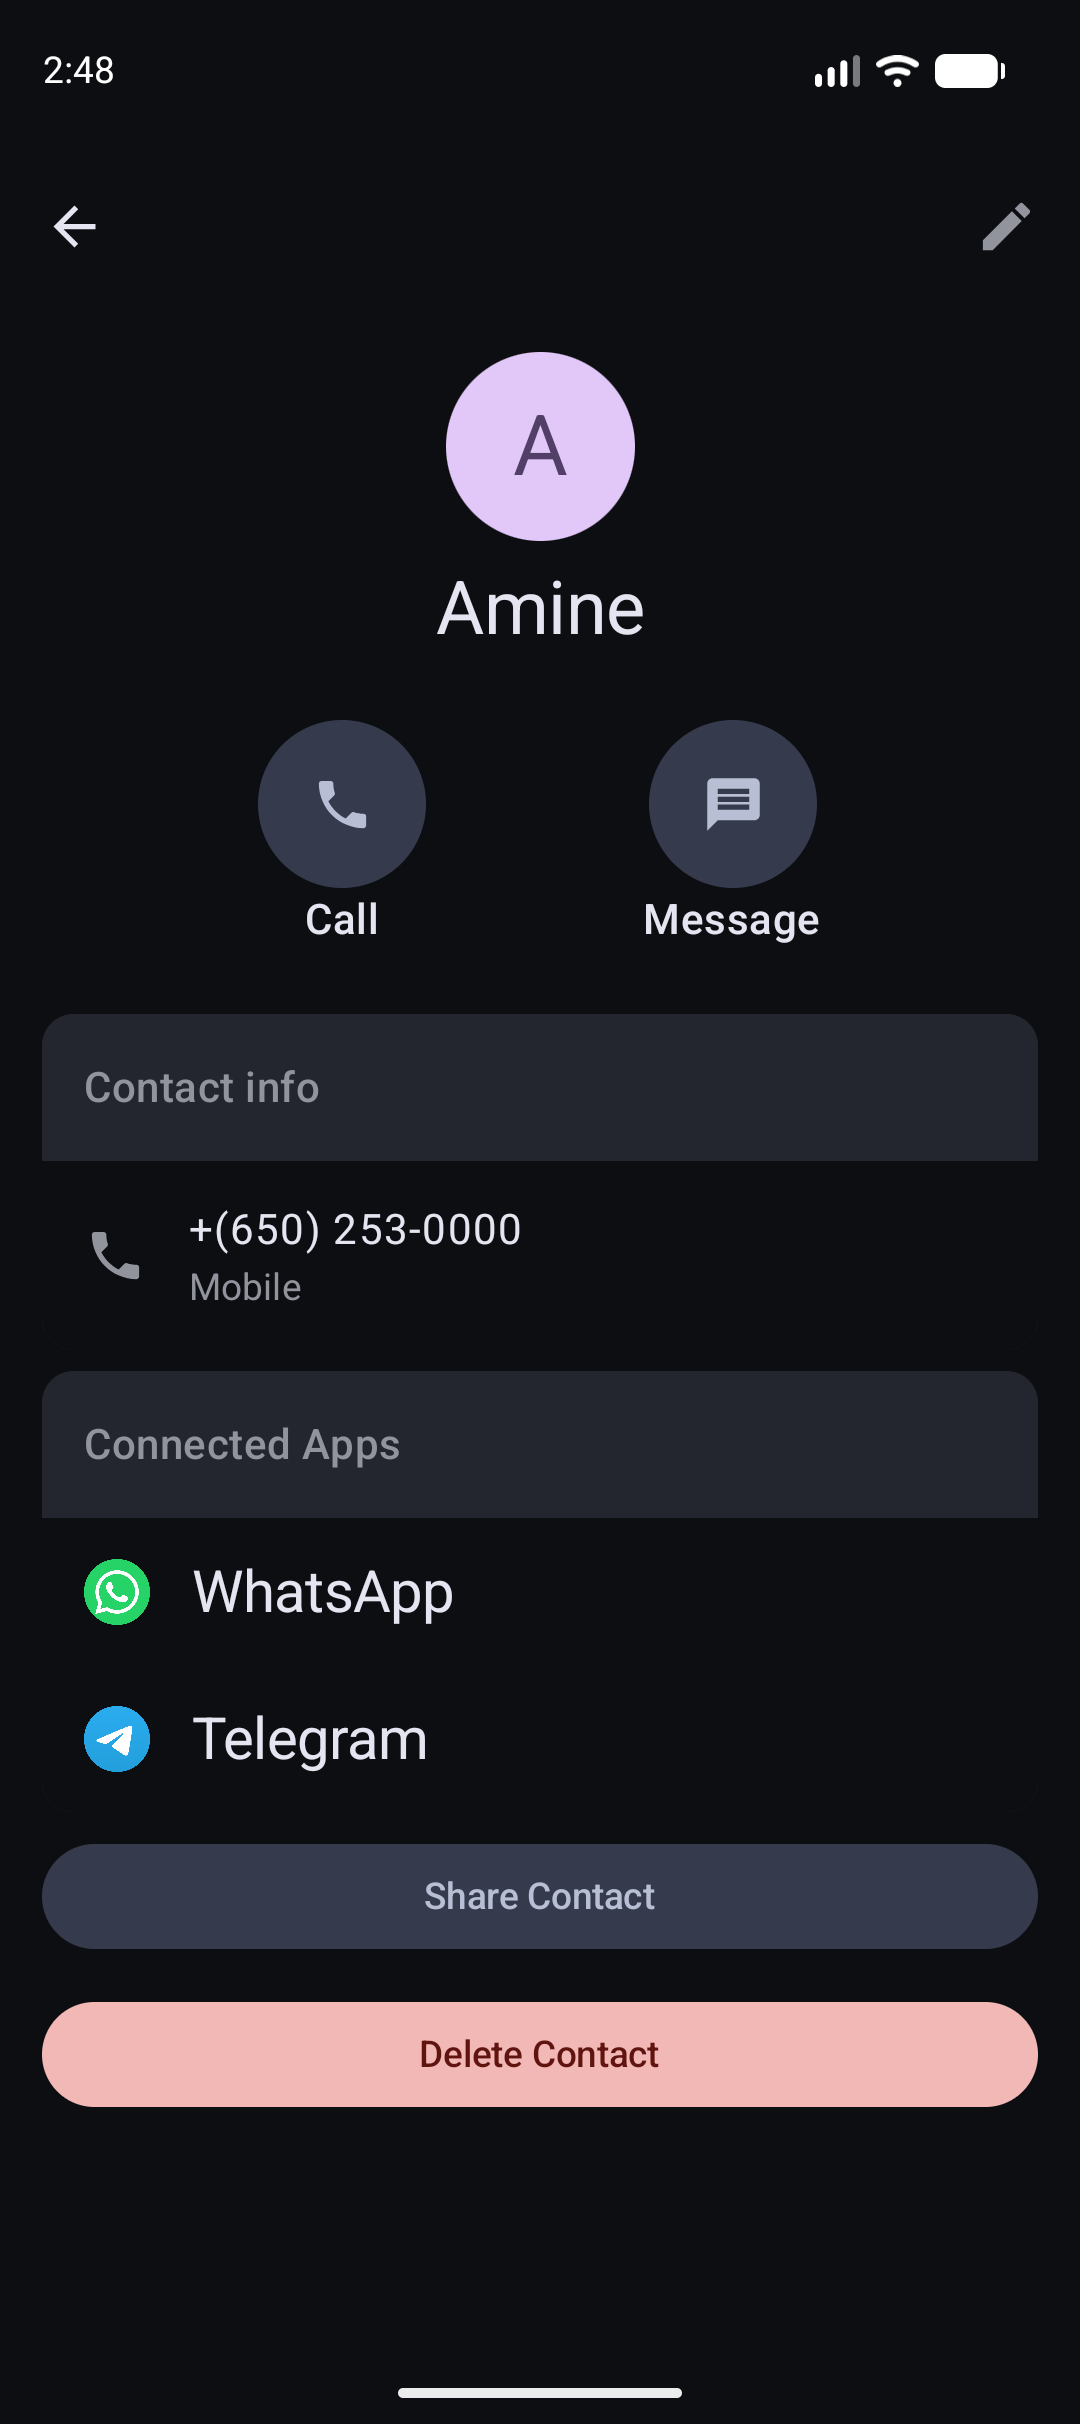
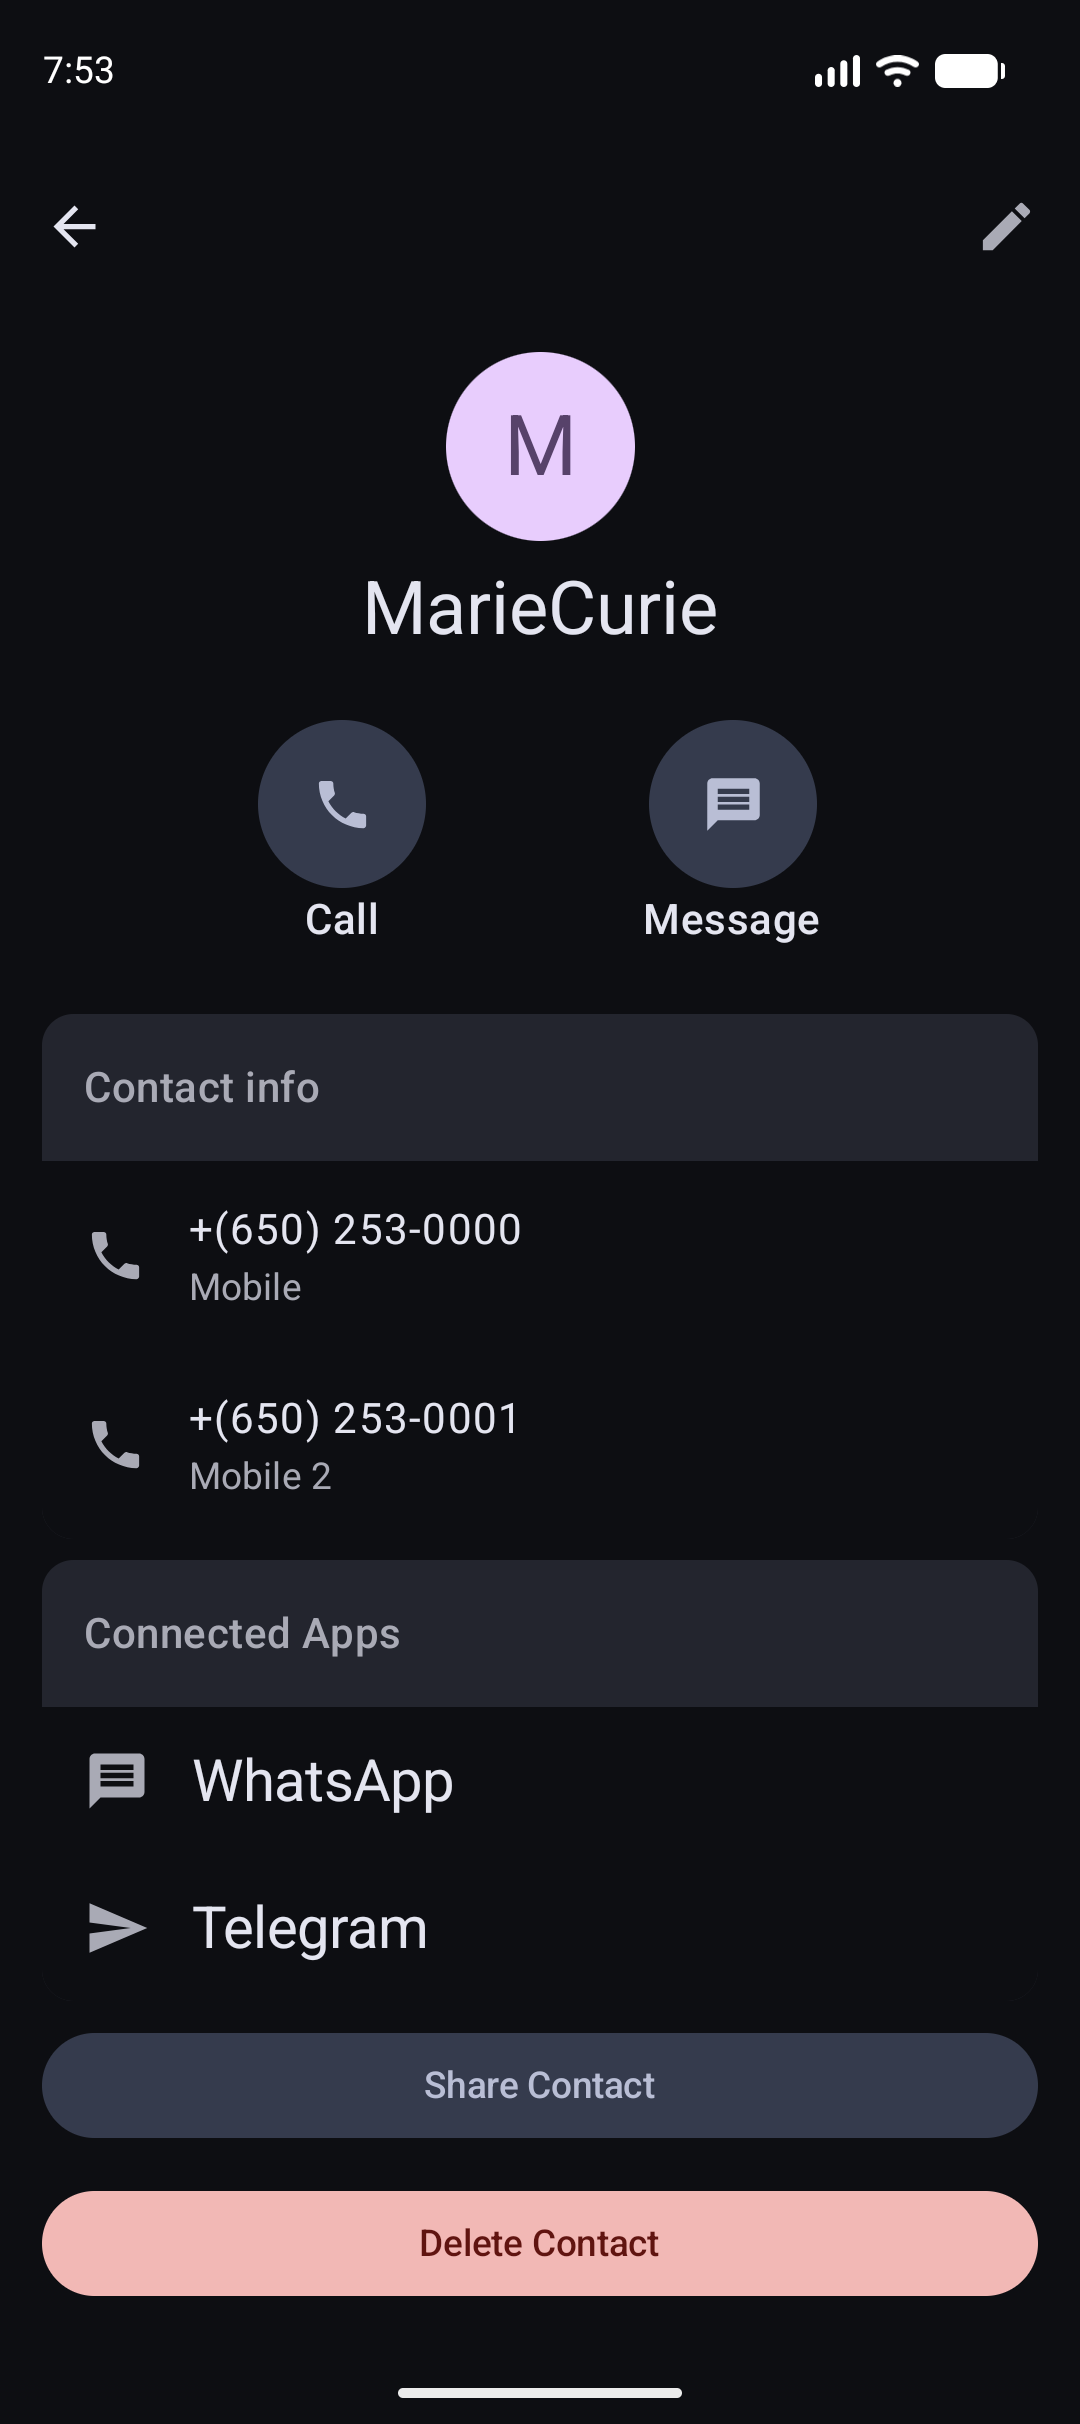
docs(readme): cover multi-number support
Feature bullet, refreshed editor/preview screenshots, data-layer
structure note, current APK size and Unreleased changelog entry.

diff --git a/README.md b/README.md
@@ -83,9 +83,14 @@ requests **zero network permissions**.
 - **Private caller ID.** Incoming/outgoing call popup with name, photo and
   notes resolved from the local database; system call-directory provider
   included.
-- **Contacts stay out of the system.** Add, search (FTS prefix), preview,
-  edit, import/export/share VCF (photos included) — nothing ever leaves
-  the app database.
+- **Contacts stay out of the system.** Add, search (FTS prefix, text and
+  digits combined), preview, edit, import/export/share VCF (photos
+  included) — nothing ever leaves the app database.
+- **Several numbers per contact.** Dynamic editor rows with per-row
+  country, one primary flag, and duplicate protection across contacts
+  (a taken number names its owner instead of merging); caller lookup,
+  preview actions, WhatsApp/Telegram rows and VCF backup all cover
+  every number.
 - **Lock it down.** Optional passcode (5-attempt lockout), biometrics,
   auto-lock timeouts, instant lock, encrypted storage.
 - **Yours to theme.** Dynamic (Material You) colors with toggle, pure-black
@@ -193,7 +198,8 @@ app/src/main/java/com/hcmdz/privnum/
 ├── PrivnumApplication.kt        # Hilt application
 └── res/xml/file_paths.xml       # FileProvider paths (VCF/photo sharing)
 core/caller/                    # Screening service, receiver, directory provider, overlay UI
-core/data/                      # Room (contacts + FTS4, exportSchema=true), repository,
+core/data/                      # Room (contacts + phone_numbers + FTS4,
+│   │                           # exportSchema=true, v1→v2 migration), repository,
 │   │                           # DataStore settings, encrypted passcode, VCF, photo store
 │   └── db/                      # Entities, DAO, database + schemas/
 core/ui/                        # Material 3 theme + shared ContactAvatar
@@ -235,13 +241,16 @@ apksigner verify --print-certs app/build/outputs/apk/release/Privnum-release.apk
 
 ## 📏 APK Size
 
-Current release APK: **~4.1 MB** (universal, single APK, R8 + shrink enabled).
+Current release APK: **~5.0 MB** (universal, single APK, R8 + shrink enabled, V3-signed).
 
 <p align="right">(<a href="#readme-top">back to top</a>)</p>
 
 ---
 
 ## 📝 Changelog
+
+### Unreleased
+- Multiple phone numbers per contact (Room v1→v2 migration, primary flag, per-number actions, multi-TEL VCF)
 
 ### v1.0.0
 - Native conversion: contacts, search, editor, details, settings, lock, VCF backup, caller ID
